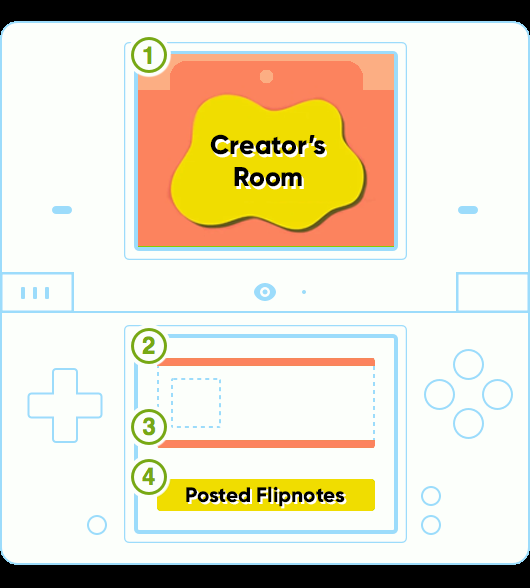
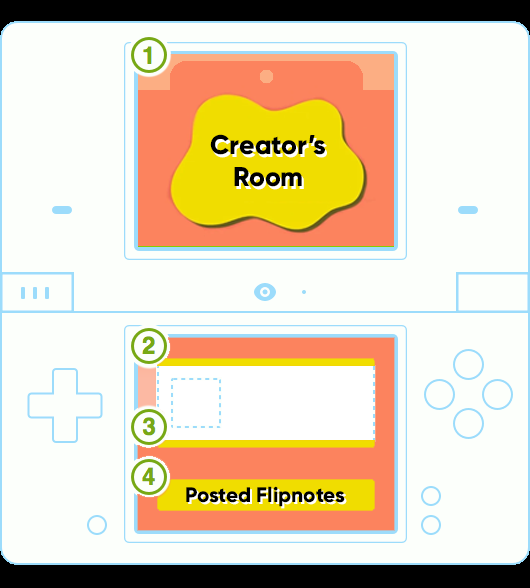
e

Changed region(s): [[0.2415, 0.551, 0.7547, 0.9184]]

diff --git a/Tomodachi Collection/INFO.md b/Tomodachi Collection/INFO.md
@@ -2,3 +2,7 @@
 This theme is based around Tomodachi Collection, a Japanese-only game for the NDS
 
 <img src="preview.png" alt="preview image">
+
+Note: The image above is not final, and merely a "sketch" of what it would look like
+
+/bottom/tile.png is the bottom screen background
